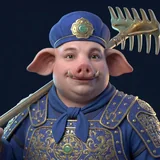
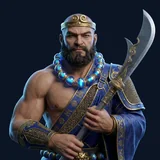
feat(ui): update loyal default portrait to shawujing, standardize altar terminology, and unify back button text

diff --git a/apps/web/src/AccountPanel.tsx b/apps/web/src/AccountPanel.tsx
@@ -199,7 +199,7 @@ export function AccountPanel({user,onUser,initialReplay,onBack,onLogout}:{user:U
   usePageSound(`${tab}:${replay ?? ''}`);
   const avatar=avatarNames[user.avatar??'leaf'];
   if(replay)return <ReplayPanel key={replay} id={replay} onBack={()=>{setReplay(null);if(initialReplay)setTab('history');}}/>;
-  return <section className="panel account"><div className="account-banner" aria-hidden="true"><span>取经功果</span></div><div className="section-head profile-bar"><div className="profile-heading"><span className="avatar" aria-label={`${avatar.name}头像`}><PlayerAvatar avatar={user.avatar??'leaf'} avatarUrl={user.avatarUrl} wechatAvatarUrl={user.wechatAvatarUrl} fallbackKind="leaf"/></span><div><p className="eyebrow">西游 · 真假猴王 / 个人中心</p><h1>{user.nickname}</h1></div></div><div style={{display:'flex',gap:6}}>{onLogout&&<button className="secondary compact-button" onClick={onLogout} style={{color:'#fca5a5'}}>🚪 更换身份</button>}<button className="secondary compact-button" onClick={onBack}>回到朋友桌</button></div></div>
+  return <section className="panel account"><div className="account-banner" aria-hidden="true"><span>取经功果</span></div><div className="section-head profile-bar"><div className="profile-heading"><span className="avatar" aria-label={`${avatar.name}头像`}><PlayerAvatar avatar={user.avatar??'leaf'} avatarUrl={user.avatarUrl} wechatAvatarUrl={user.wechatAvatarUrl} fallbackKind="leaf"/></span><div><p className="eyebrow">西游 · 真假猴王 / 个人中心</p><h1>{user.nickname}</h1></div></div><div style={{display:'flex',gap:6}}>{onLogout&&<button className="secondary compact-button" onClick={onLogout} style={{color:'#fca5a5'}}>🚪 更换身份</button>}<button className="secondary compact-button" onClick={onBack}>返回原页面</button></div></div>
     <ProfileEditor user={user} onUser={onUser}/>
     <details className="account-sound-settings"><summary>声音设置</summary><SoundControls /></details>
     <nav className="account-tabs" aria-label="个人中心栏目">{([['stats','我的战绩'],['history','历史对局'],['favorites','我的收藏'],['presets','常用设置']] as const).map(([id,label])=><button className="secondary" key={id} aria-current={id===tab?'page':undefined} onClick={()=>setTab(id)}>{label}</button>)}</nav>

diff --git a/apps/web/src/TeamVoteDialog.tsx b/apps/web/src/TeamVoteDialog.tsx
@@ -21,7 +21,7 @@ export function TeamVoteDialog({ game, players, anonymous, userId, serverTime, d
   const submitted = Boolean(game.self?.teamVoted);
   return <Modal label="组队投票" scene="sword" onClose={onClose}>
     <section className="table-modal-sheet team-vote-sheet">
-      <header className="table-modal-head"><strong>取经组队表决</strong><button className="secondary tool-pill a2-lacquer-pill" onClick={onClose}>返回牌桌</button></header>
+      <header className="table-modal-head"><strong>取经组队表决</strong><button className="secondary tool-pill a2-lacquer-pill" onClick={onClose}>返回法坛</button></header>
       <p className="vote-rule">准行多于封驳即准予出征；旁观不计入比较，平票视为流局。</p>
       <div className="vote-proposal" aria-label="本次组队方案">{round.team.map(id => {
         const player = players.find(p => p.id === id)!;

diff --git a/apps/web/src/GamePanel.tsx b/apps/web/src/GamePanel.tsx
@@ -1102,7 +1102,7 @@ export function GamePanel({
                   : ' · 1张失败牌即失败'}）
               </strong>
               <button type="button" className="secondary tool-pill" onClick={() => setInspectMission(null)}>
-                返回牌桌
+                返回法坛
               </button>
             </div>
 
@@ -1139,7 +1139,7 @@ export function GamePanel({
             <div className="table-modal-head">
               <strong>取经劫难全录（共 {g.rounds.length} 次提案）</strong>
               <button type="button" className="secondary tool-pill" onClick={() => setHistoryOpen(false)}>
-                返回牌桌
+                返回法坛
               </button>
             </div>
             {g.rounds.length === 0 ? (

diff --git a/apps/web/src/main.tsx b/apps/web/src/main.tsx
@@ -743,7 +743,7 @@ function App() {
                   })
                 }
               >
-                {busy ? '正在开启仙境…' : '开启取经房间'}
+                {busy ? '正在开启法坛…' : '开启法坛'}
               </button>
               <button
                 type="button"
@@ -1322,7 +1322,7 @@ function App() {
                     />
                   </details>
                 )}
-                <button type="button" onClick={() => setSettingsModalOpen(false)}>返回房间</button>
+                <button type="button" onClick={() => setSettingsModalOpen(false)}>返回法坛</button>
               </div>
             </Modal>
           )}

diff --git a/apps/web/src/MissionReportDialog.tsx b/apps/web/src/MissionReportDialog.tsx
@@ -36,7 +36,7 @@ export function MissionReportDialog({
             <strong>{missionConfig?.title ?? `任务 ${round.mission}`}</strong>
           </div>
           <button type="button" className="secondary tool-pill a2-lacquer-pill" onClick={onClose}>
-            返回牌桌
+            返回法坛
           </button>
         </header>
 
